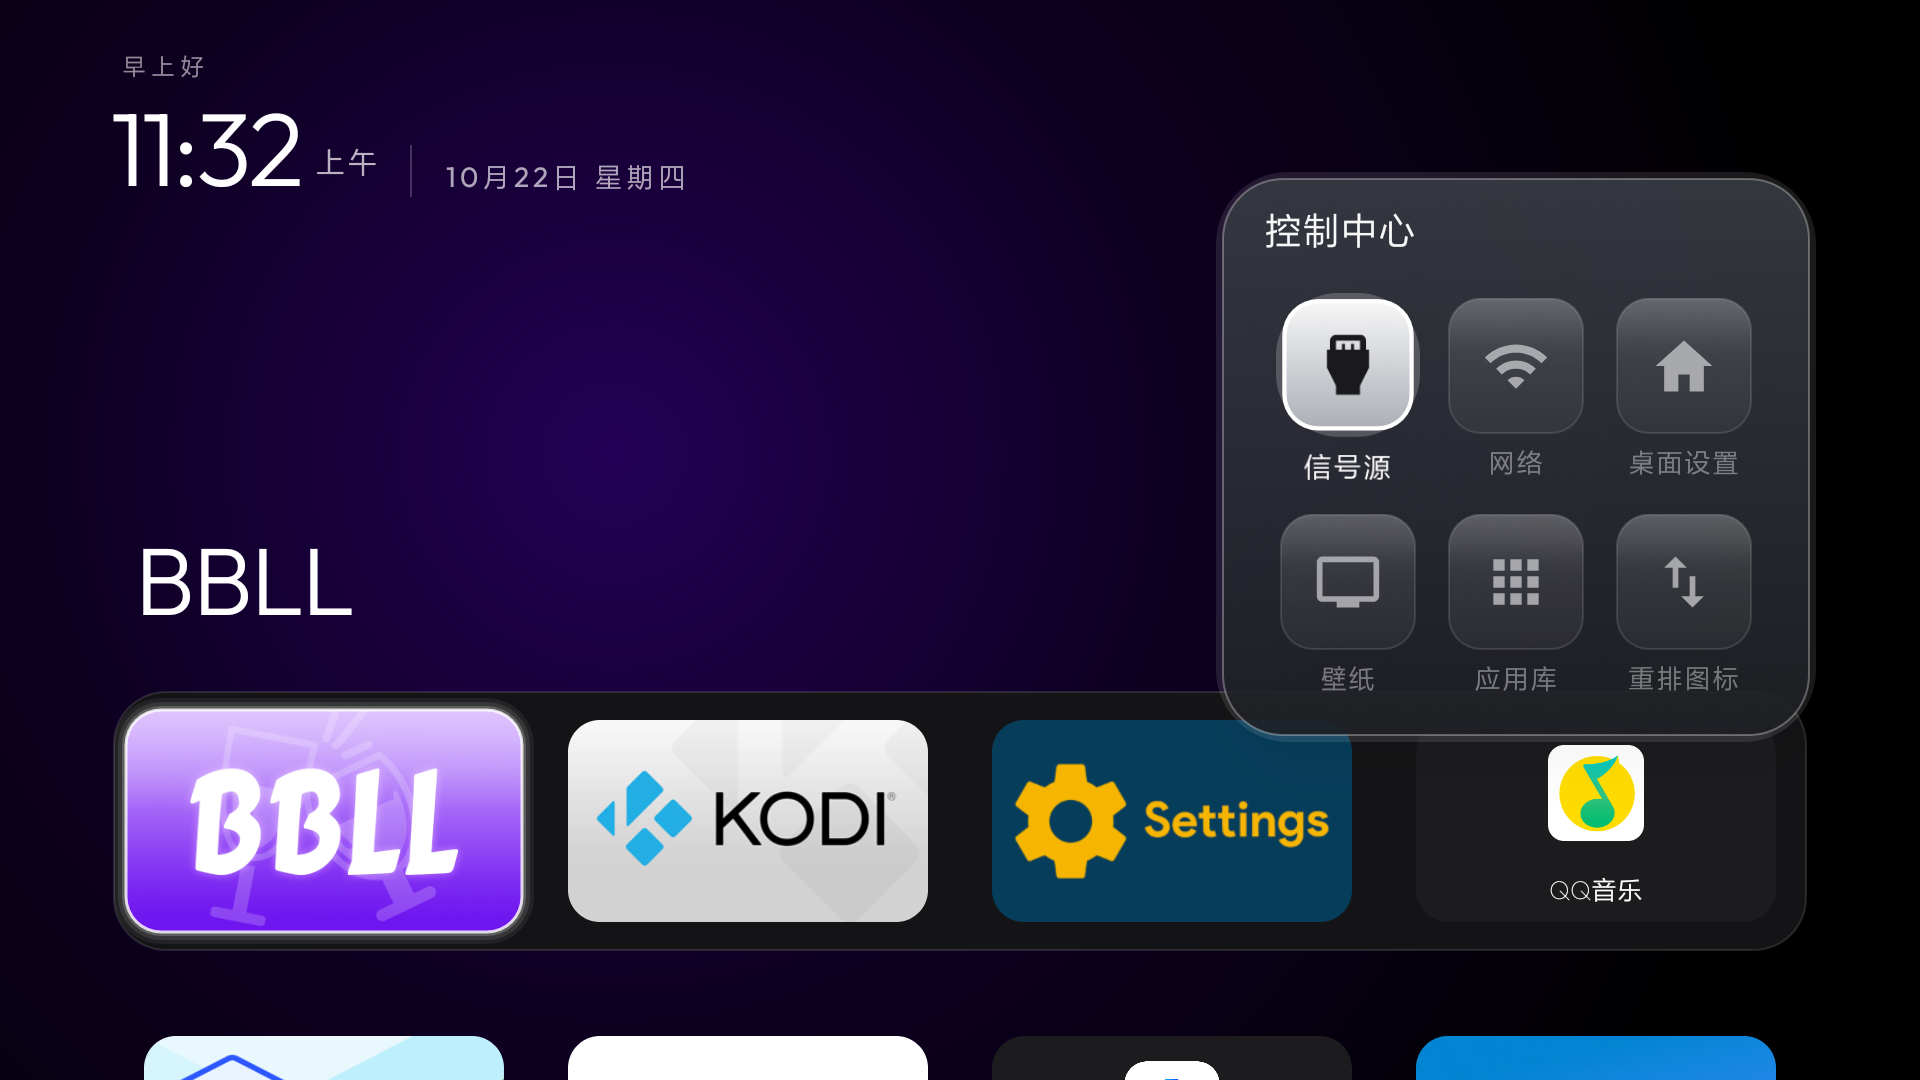
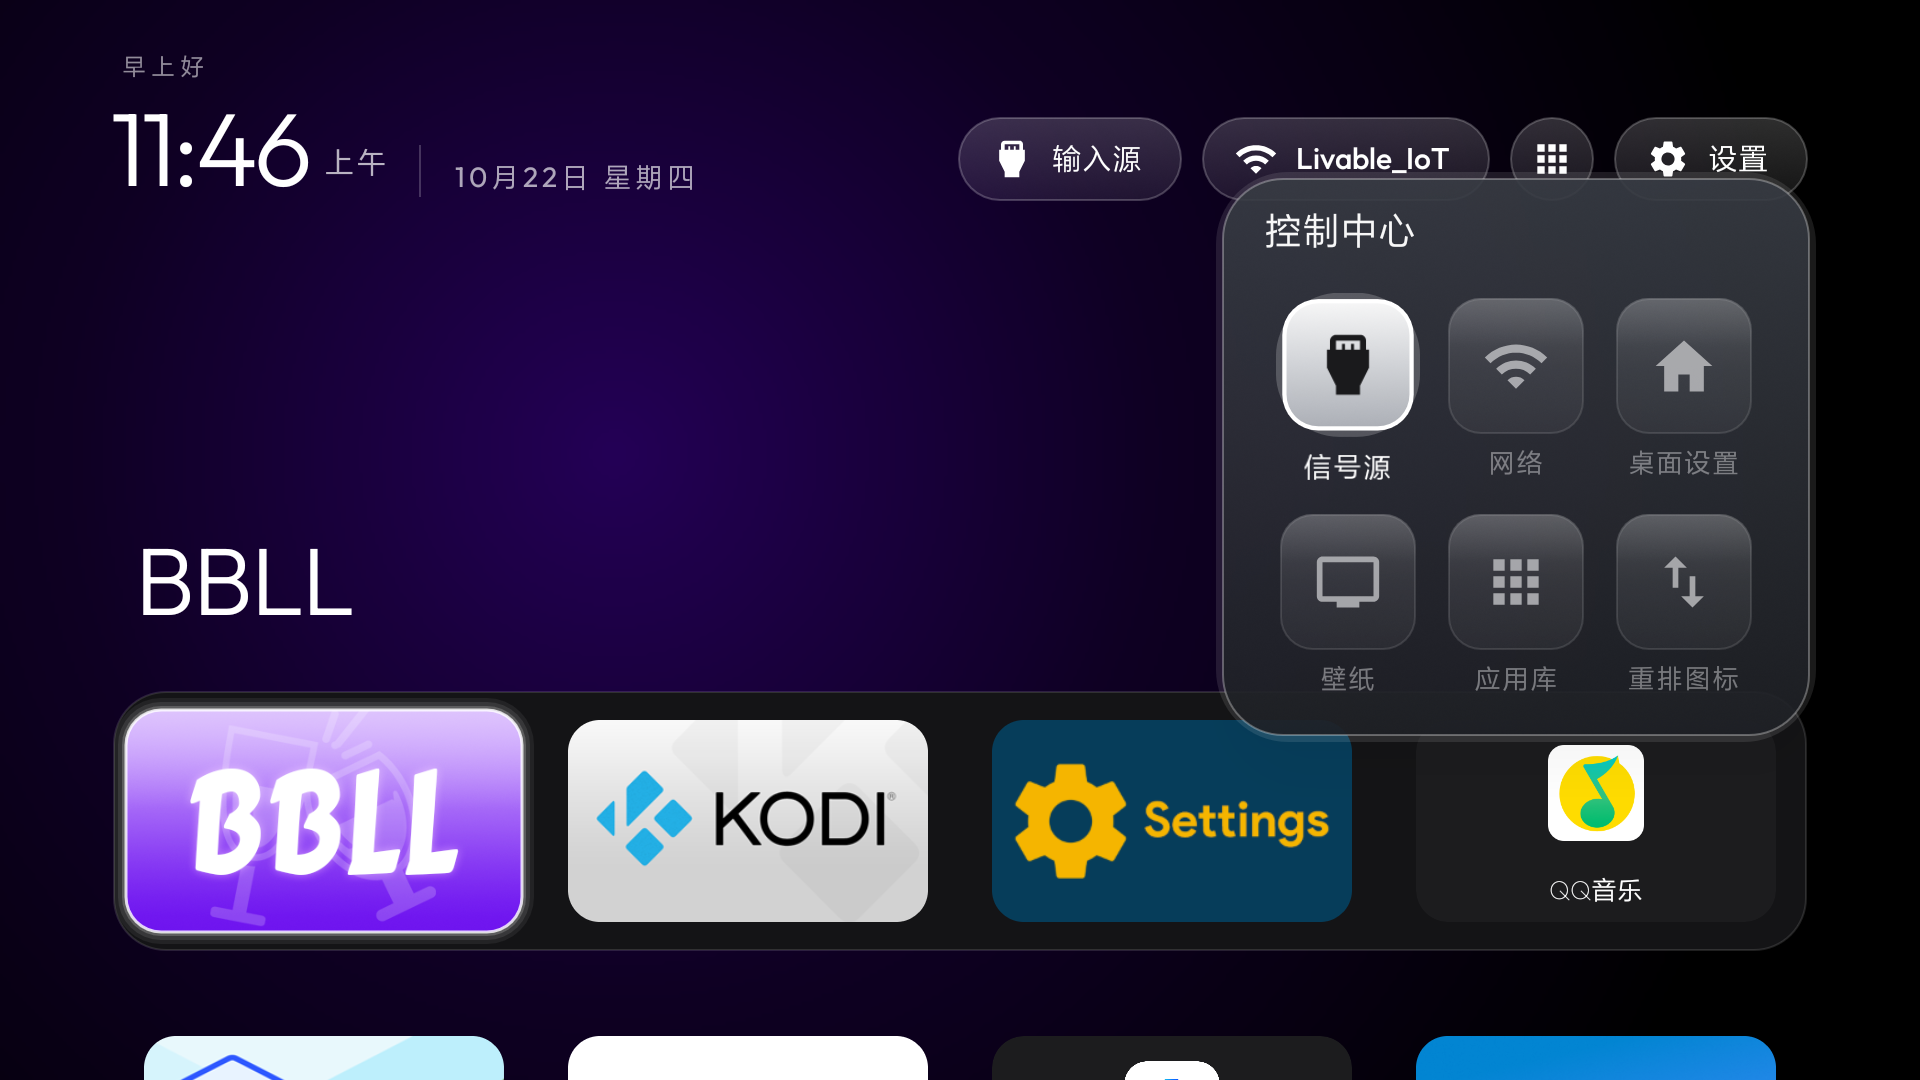
3.9.5: 顶栏恢复四个按钮 + 修顶栏左右导航
K 2026-10-22：控制中心只是快捷方式，顶栏常用入口必须保留。
- library_button 改回 true，顶栏 = 信号源 / 网络 / 应用库 / 设置 四个
- 修 bug：pillKeys 把右边界写死成 btnSettings，导致夹在中间的「应用库」按右键没反应。
  改成按实际可见顺序推算左右边界，3~5 个按钮都成立
- 截图更新

Changed region(s): [[0.5, 0.0917, 0.9375, 0.1833], [0.0938, 0.0917, 0.1875, 0.1833], [0.2188, 0.1528, 0.375, 0.1833]]

diff --git a/launcher/app/src/main/java/com/gathin/tvhome/MainActivity.java b/launcher/app/src/main/java/com/gathin/tvhome/MainActivity.java
@@ -535,11 +535,20 @@ public class MainActivity extends Activity implements AppAdapter.TileListener, T
                 focusTile(lastFocused % COLUMNS);
                 return true;
             }
-            int firstButton = btnInputs.getVisibility() == View.VISIBLE ? R.id.btnInputs : R.id.btnWifi;
-            int leftButton = rtlMenuBar ? R.id.btnSettings : firstButton;
-            int rightButton = rtlMenuBar ? firstButton : R.id.btnSettings;
-            if (keyCode == KeyEvent.KEYCODE_DPAD_LEFT) return v.getId() == leftButton;
-            return keyCode == KeyEvent.KEYCODE_DPAD_RIGHT && v.getId() == rightButton;
+            // 顶栏现在可能是 3~5 个按钮（信号源/网络/应用库/重排/设置），必须按「实际可见顺序」
+            // 算左右边界，不能写死 btnSettings——否则夹在中间的九宫格/重排按钮按右键没反应。
+            java.util.List<Integer> order = new java.util.ArrayList<>();
+            for (int id : new int[]{R.id.btnInputs, R.id.btnWifi, R.id.btnLibraryTop,
+                    R.id.btnReorder, R.id.btnSettings}) {
+                View b = findViewById(id);
+                if (b != null && b.getVisibility() == View.VISIBLE) order.add(id);
+            }
+            if (order.isEmpty()) return false;
+            int idx = order.indexOf(v.getId());
+            if (idx < 0) return false;
+            boolean rtl = rtlMenuBar;
+            if (keyCode == KeyEvent.KEYCODE_DPAD_LEFT) return idx == (rtl ? order.size() - 1 : 0);
+            return keyCode == KeyEvent.KEYCODE_DPAD_RIGHT && idx == (rtl ? 0 : order.size() - 1);
         };
         btnInputs.setOnKeyListener(pillKeys);
         btnWifi.setOnKeyListener(pillKeys);

diff --git a/README.md b/README.md
@@ -9,7 +9,7 @@
 | 桌面 | 控制中心（菜单键） | 长按 OK 应用菜单 |
 |:---:|:---:|:---:|
 | ![桌面](docs/screenshots/home.png) | ![控制中心](docs/screenshots/control-center.png) | ![应用菜单](docs/screenshots/tile-menu.png) |
-| 右上角保留「信号源 / 网络 / 设置」三个按钮 | 简洁中性玻璃风格，六枚磁贴：信号源 / 网络 / 桌面设置 / 壁纸 / 应用库 / 重排 | 打开 / 从主屏幕隐藏 / 置顶 / 移动位置 / 卸载 / 应用信息 |
+| 右上角保留「信号源 / 网络 / 应用库 / 设置」四个按钮 | 简洁中性玻璃风格，六枚磁贴：信号源 / 网络 / 桌面设置 / 壁纸 / 应用库 / 重排 | 打开 / 从主屏幕隐藏 / 置顶 / 移动位置 / 卸载 / 应用信息 |
 
 | 时钟屏保 | 设置菜单 |
 |:---:|:---:|
@@ -37,8 +37,8 @@
 | **菜单键** | **控制中心**：信号源 / 网络 / 桌面设置 / 壁纸 / 应用库 / 重排图标 |
 | 返回键 | 关掉当前面板；在桌面上按则进入时钟屏保 |
 
-**右上角的「信号源 / 网络 / 设置」三个按钮照旧保留**，控制中心只是快捷方式，不是唯一入口。
-（重排、应用库两个入口从顶栏撤下，放在控制中心里，避免顶栏太挤。）
+**右上角的「信号源 / 网络 / 应用库 / 设置」四个按钮照旧保留**，控制中心只是快捷方式，不是唯一入口。
+（只有「重排」从顶栏撤下，放在控制中心里，避免顶栏太挤。）
 
 控制中心是简洁中性玻璃风格，六枚磁贴点开即用。不放音量——遥控器本身就有音量键。
 
